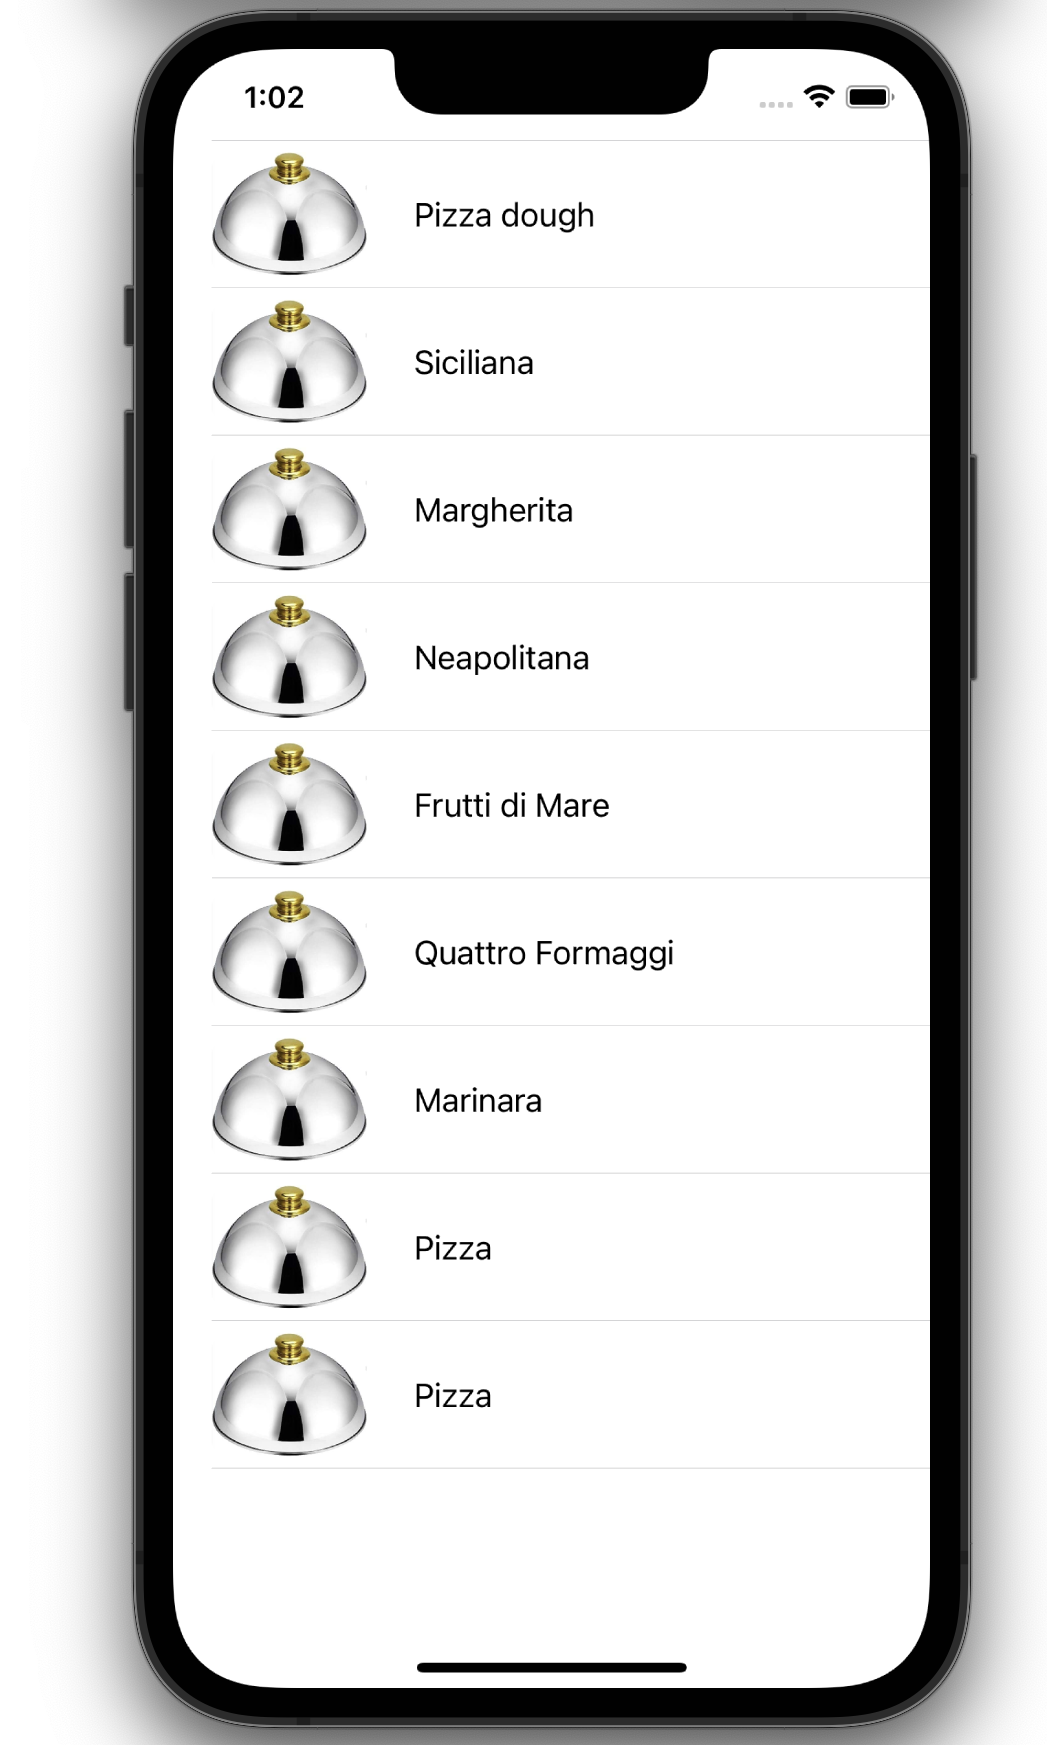
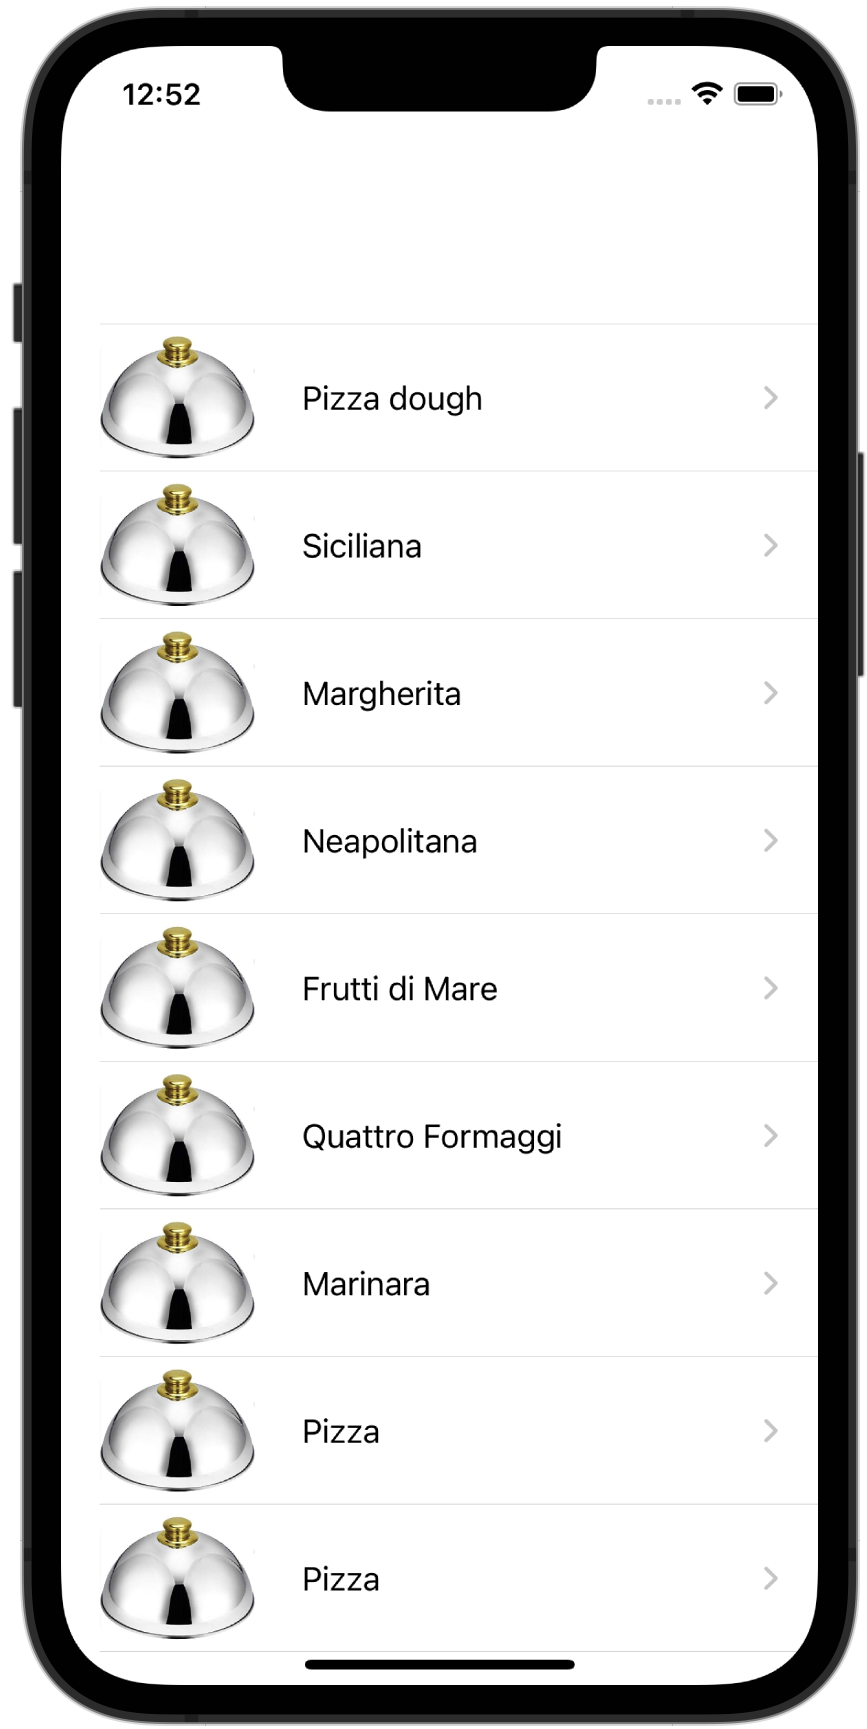
Step 22: Bind iOS Swift UI to shared RecipeDetail ViewModel and add Navigation

diff --git a/_posts/2022-07-21-step-22-bind-ios-to-recipe-details-view-model.md b/_posts/2022-07-21-step-22-bind-ios-to-recipe-details-view-model.md
@@ -1,0 +1,192 @@
+---
+title: "Step 22: Bind iOS Swift UI to shared RecipeDetail ViewModel and add Navigation" 
+layout: post
+categories: kmm ios kingfisher
+--- 
+
+Now let’s add a new <b>Swift UI</b> Recipe Details screen and <b>Navigation</b> to it.<br>
+Create `recipeDetail` folder and add `RecipeDetailState.swift` and `RecipeDetailView.swift` files:
+
+<div style="text-align: center"><img src="{{site.baseurl}}/assets/images/step-22/1.png" alt="create recipe detail state and view files" width="200"/></div>
+
+Add `Navigation` to `ContentView`:
+
+{% highlight swift %} 
+        NavigationView {
+            VStack {
+                RecipesView()
+            }
+        }
+{% endhighlight %} 
+ 
+Then, add a navigation link to the recipes list in `RecipesView.swift` like this:
+
+{% highlight swift %} 
+List(state.recipes, id: \.id) { recipe in
+            NavigationLink(destination: RecipeDetailView (id: KotlinLong.init(value: recipe.id))) { [1]
+                    RecipeView(item: recipe)
+               
+            }
+        }
+{% endhighlight %} 
+ 
+<b>[1]</b> Here we’re transforming Swift `Int64?` To `KotlinLong?`, which is a Kotlin Native type of `recipeId`<br>
+ 
+To make it neater, let’s write an extension.
+Create a separate `Extensions.swift` in a `utils` group:
+<div style="text-align: center"><img src="{{site.baseurl}}/assets/images/step-22/2.png" alt="add toKotlinLong() extension" width="200"/></div>
+
+{% highlight swift %} 
+import shared
+ 
+extension Int64 {
+    func toKotlinLong() -> KotlinLong {
+        return KotlinLong(value: self)
+    }
+}
+{% endhighlight %} 
+ 
+Now you can use this extension instead of `KotlinLong.init(value: recipe.id))`:
+
+{% highlight swift %} 
+NavigationLink(destination: RecipeDetailView (id: recipe.id.toKotlinLong())) {
+                    RecipeView(item: recipe)
+               
+            }
+{% endhighlight %} 
+ 
+Populate the `RecipeDetailState.swift`:
+
+{% highlight swift %} 
+import SwiftUI
+import Foundation
+import shared
+ 
+class RecipeDetailState: ObservableObject{
+    
+    let recipeId: KotlinLong? [1]
+    let viewModel: RecipeDetailsViewModel [2]
+    
+    @Published private(set) var recipe: RecipeUiModel? = nil [3]
+    @Published private(set) var upload: Bool? = nil
+    
+    init(recipeId: KotlinLong?) {
+        self.recipeId = recipeId
+        viewModel = RecipeDetailsViewModel(id: recipeId)
+        
+        viewModel.observeRecipe { recipe in
+            self.recipe = recipe
+        }
+    }
+    
+    deinit {
+        viewModel.dispose()
+    }
+}
+{% endhighlight %} 
+ 
+<b>[1]</b> We will use `KotlinLong` for our recipe ids<br>
+<b>[2]</b> The shared `RecipeDetailsViewModel` will hold the data and deliver it to iOS through Kotlin flows, just like it did before in the recipes list view model<br>
+<b>[3]</b> In this `@Published` `recipe` property we’ll store the recipe details received through the shared view model.<br>
+ 
+Finally, add this to the `RecipeDetailView.swift`:
+
+{% highlight swift %} 
+import SwiftUI
+import shared
+import Kingfisher
+ 
+struct RecipeDetailView: View {
+    
+    let recipeId: KotlinLong?
+    @ObservedObject var state: RecipeDetailState
+    
+    init(id: KotlinLong?) {
+        self.recipeId = id
+        state = RecipeDetailState(recipeId: id)
+    }
+    
+    var body: some View {
+        ScrollView {
+            LazyVStack {
+                ForEach(state.recipe?.ingredients ?? [], id: \.id, content: { ingredient in
+                    Text(ingredient.name)
+                        .font(.body)
+                })
+            }
+        }
+        
+    }
+    
+}
+{% endhighlight %} 
+ 
+ 
+<b>[1]</b> The observable `RecipeDetailState` will hold the data for the `RecipeDetailView`<br>
+<b>[2]</b> To begin with, we are just displaying a list of ingredients to make sure everything works<br>
+ 
+Run the App now and try navigation to the pizza recipe. You’ll see the list of ingredients.
+<div style="text-align: center"><img src="{{site.baseurl}}/assets/images/step-22/3.png" alt="add toKotlinLong() extension" width="300"/></div> 
+ 
+Now add other views to the recipe detail screen:
+
+{% highlight swift %} 
+var body: some View {
+        ScrollView { [1]
+            Text(state.recipe?.title ?? "")
+                .font(.headline)
+           KFImage(URL(string: "https://m.media-amazon.com/images/I/413qxEF0QPL._AC_.jpg"))
+                .resizable()
+                .frame(width: 200, height: 150)
+                .padding(.trailing)
+            
+            Text("Ingredients") [3]
+                .font(.subheadline)
+            LazyVStack {
+                ForEach(state.recipe?.ingredients ?? [], id: \.id, content: { ingredient in
+                    HStack {
+                        Text(ingredient.name)
+                            .font(.body)
+                            .frame(maxWidth: .infinity, alignment: .leading)
+                        
+                        HStack {
+                            Text("\(ingredient.amount, specifier: "%.1f")")
+                            Text(ingredient.metric)
+                                .font(.body)
+                        }
+                    }
+                    
+                })
+            }
+            .padding()
+            
+            Text("Instructions") [4]
+                .font(.subheadline)
+            LazyVStack {
+                ForEach(state.recipe?.instructions ?? [], id: \.id, content: { instruction in
+                    HStack {
+                        Text("\(instruction.order). ")
+                            .font(.body)
+                        Text(instruction.description_)
+                            .font(.body)
+                            .frame(maxWidth: .infinity, alignment: .leading)
+                    }
+                    .padding()
+                    
+                })
+            }
+        }
+        
+    }
+{% endhighlight %}  
+ 
+<b>[1]</b> Use `ScrollView` to make `RecipeDetailsView` scrollable in case it has to many ingredients or instructions<br>
+<b>[2]</b> Add a recipe title image with `Kingfisher` image library<br>
+<b>[3]</b> Add a section with ingredients’ names and measurements<br>
+<b>[4]</b> Add a section with instructions<br>
+ 
+Run the app again, go to recipe detail view and you’ll see, it looks much better now.
+
+<div style="text-align: center"><img src="{{site.baseurl}}/assets/images/step-22/4.png" alt="add toKotlinLong() extension" width="300"/></div>
+ 
+Our <b>next step</b> will be: adding a <b>floating button</b> and <b>edit</b> recipe functionality.
